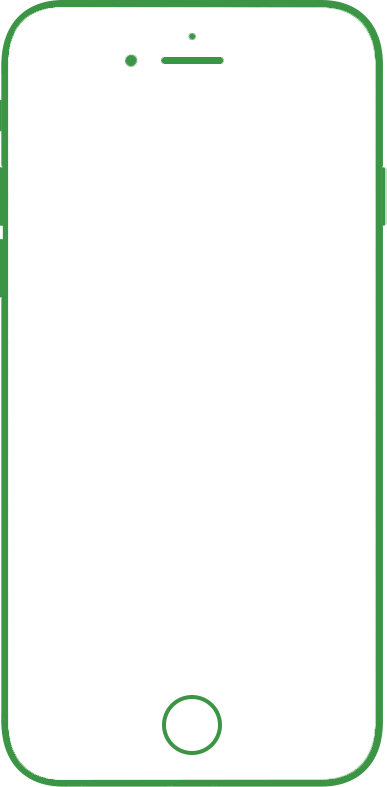
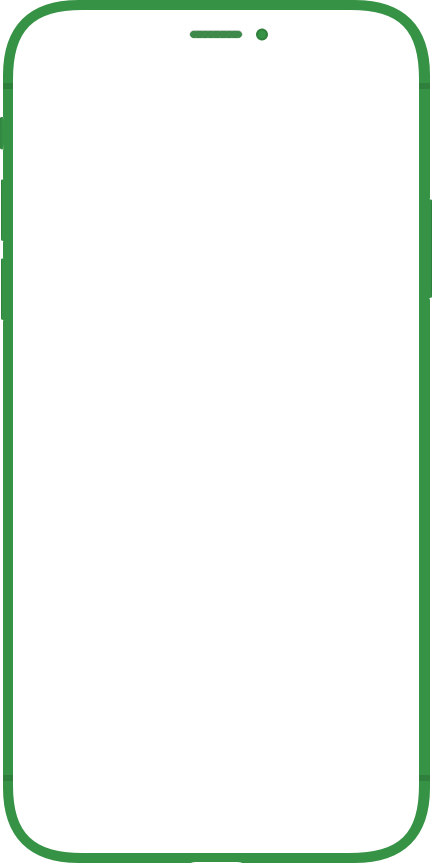
Updated dart page with iPhone X screenshots

Changed region(s): [[0.0, 0.0, 1.0, 1.0], [0.4031, 0.8844, 0.5891, 0.9454], [0.3101, 0.061, 0.3721, 0.0915]]

diff --git a/darto.html b/darto.html
@@ -54,17 +54,17 @@
 
 	<section class="case_intro">
 
-		<div class="screenshot">
-			<img class="frame" src="images/cases/darto/phone-big-white.svg" alt="iPhone" />
+		<div class="screenshot_x">
+			<img class="frame" src="images/cases/darto/phone-big-white.png" alt="iPhone" />
 			<img class="screen" src="images/cases/darto/1 - Top Screen.png"  alt="Darto screenshot"/>
 		</div>
 
 		<div class="case_description">
 			<h1><img class="icon" src="images/cases/darto/icon.png" alt="Darto icon">Darto</h1>
-			<div class="case_statement">Train schedule for Dublin commuters</div>
-			<p>Darto is a smart, simple & beatiful app for Dublin train commuters. Never miss your train again!</p>
+			<div class="case_statement">Live train info for Dublin commuters</div>
+			<p>Our goal was to create an easy to use and fresh looking app for Dublin rail commuters.</br>We also developed some key features unique to the market, like train alerts and arrivals widget.</p>
 			<div class="case_appstore no_mobile">
-				<a href="https://itunes.apple.com/us/app/darto-rail-commute-for-dubs/id1165453186?ls=1&mt=8" target="_blank" style="display:inline-block;overflow:hidden;background:url(http://linkmaker.itunes.apple.com/images/badges/en-us/badge_appstore-lrg.svg) no-repeat;width:12.5vw;height:3.1vw;background-size: contain;"></a>
+				<a href="https://itunes.apple.com/ie/app/darto-rail-commute-for-dubs/id1165453186?ls=1&mt=8" target="_blank" style="display:inline-block;overflow:hidden;background:url(http://linkmaker.itunes.apple.com/images/badges/en-us/badge_appstore-lrg.svg) no-repeat;width:15vw;height:5vw;background-size: contain;"></a>
 			</div>
 		</div>
 	</section>
@@ -75,7 +75,7 @@
 <section class="feature feature_right">
 
 	<div class="_c feature_1 clearfix">
-		<div class="screenshot">
+		<div class="screenshot_x">
 			<img class="frame" src="images/cases/darto/phone-frame.png" alt="iPhone"/>
 			<img class="screen" src="images/cases/darto/2 - Alerts Screen.png" alt="Darto Alerts Screenshot"/>
 		</div>
@@ -91,17 +91,34 @@
 
 <section class="feature feature_left">
 	<div class="_c feature_2 clearfix">
-		<div class="screenshot">
+		<div class="screenshot_x">
 			<img class="frame" src="images/cases/darto/phone-frame.png" alt="iPhone"/>
-			<img class="screen" src="images/cases/darto/3 - Location Screen.png" alt="Darto Location Screenshot"/>
+			<img class="screen" src="images/cases/darto/2 - Widget Screen.png" alt="Darto Location Screenshot"/>
 		</div>
 		<div class="description">
 			<img src="images/cases/darto/coffee-bean.svg" class="divider" alt="coffee icon"/>
-			<h2>Location-based</h2>
-			<p>Darto will automatically display train schedule for the DART station closest to your location.</p>
+			<h2>Today Widget</h2>
+			<p>Train times for your favourite and nearest stations just a swipe away. You don't even need to open the app!</p>
 		</div>
 	</div>
 </section>
+
+<!-- <section class="feature feature_right">
+
+	<div class="_c feature_3 clearfix">
+		<div class="screenshot_x">
+			<img class="frame" src="images/cases/darto/phone-frame.png" alt="iPhone"/>
+			<img class="screen" src="images/cases/darto/4 - Location Screen.png" alt="Darto Alerts Screenshot"/>
+		</div>
+		<div class="description">
+			<img src="images/cases/fithit/coffee-bean.svg" class="divider" alt="coffee icon"/>
+			<div class="section_name">Features</div>
+			<h2>Smart alerts</h2>
+			<p>Darto allows you to set an alarm for a specific train. It will alert you when it's time to leave home to catch your ride.</p>
+		</div>
+	</div>
+
+</section> -->
 
 <section class="feature feature_smart">
 	<div class="_c feature_3 clearfix">
@@ -109,7 +126,7 @@
 		<div class="description">
 			<img src="images/cases/darto/coffee-bean.svg" class="divider" alt="coffee icon"/>
 			<h2>Turn your idea into working app</h2>
-			<p>In this case the Client approached us with existing idea and ready-made wireframes. Our team worked from that point onwards to bring the idea to life. Want something similar?</p>
+			<p>Our target was to create nice looking and very easy to use daily commute app. Users really like Darto.</br>At the moment it has 135 reviews on the Irish App Store with average rating 4.6 stars!</br>Want something similar?</p>
 			<div class="actions">
 				<a href="contacts.html#request" class="button button_simple hover_to_dark">Request A Quote</a>
 			</div>

diff --git a/css/common_cases.css b/css/common_cases.css
@@ -57,6 +57,30 @@
 				width: 18.77vw;
 			}
 
+		.case header .case_intro .screenshot_x {
+			position: absolute;
+			top: 12vw;
+			left: 19vw;
+			width: 33vw;
+			background-image: url('../images/cases/darto/phone-x-shadow.png');
+			background-repeat: no-repeat;
+			background-position: top left;
+			background-size: cover;
+		}
+
+			.case header .case_intro .screenshot_x .frame {
+				margin-top: 1.2vw;
+				margin-left: 2.2vw;
+				margin-bottom: 4.8vw;
+				width: 25.9vw;
+				height: 51.241vw;
+			}
+			.case header .case_intro .screenshot_x .screen {
+				position: absolute;
+				top: calc(2.625vw + 0.3vw);
+				left: calc(2vw + 2.1vw);
+				width: 22vw;
+			}
 		.case header .case_intro .case_description {
 			margin-left: 55vw;
 			padding-top: 13.5vw;
@@ -82,7 +106,7 @@
 			}
 
 	.case header .case_intro .case_appstore {
-		padding-top: 10vw;
+		padding-top: 5vw;
 	}
 		.case header .case_intro .case_appstore img {
 			width: 12.5vw;
@@ -139,6 +163,20 @@
 			width: 17vw;
 		}
 
+	.feature .screenshot_x {
+		position: relative;
+	}
+
+		.feature .screenshot_x .frame {
+			width: 20vw;
+		}
+		.feature .screenshot_x .screen {
+			position: absolute;
+			top: calc(1vw);
+			left: calc(1.25vw);
+			width: 17.5vw;
+		}
+
 	.feature .divider {
 		display: block;
 		margin-top: 1vw;
@@ -159,10 +197,21 @@
 			margin-left: 18.75vw;
 		}
 
+		.feature.feature_right .screenshot_x {
+			float: right;
+			width: 40vw;
+		}
+
 	.feature.feature_left {
 	}
 
 		.feature.feature_left .screenshot {
+			float: left;
+			width: calc(50vw - 18.75vw + 1.5vw);
+			margin-left: calc(18.75vw - 1.5vw);
+		}
+
+		.feature.feature_left .screenshot_x {
 			float: left;
 			width: calc(50vw - 18.75vw + 1.5vw);
 			margin-left: calc(18.75vw - 1.5vw);

diff --git a/css/case_darto.css b/css/case_darto.css
@@ -31,11 +31,11 @@
 
 	.case.darto .feature.feature_smart ._deco {
 		position: absolute;
-		right: -7vw;
+		right: -3vw;
 		bottom: -10vw;
 	}
 		.case.darto .feature.feature_smart ._deco img {
-			width: 60vw;
+			width: 40vw;
 		}
 
 	.case.darto header .case_intro .case_appstore img {
